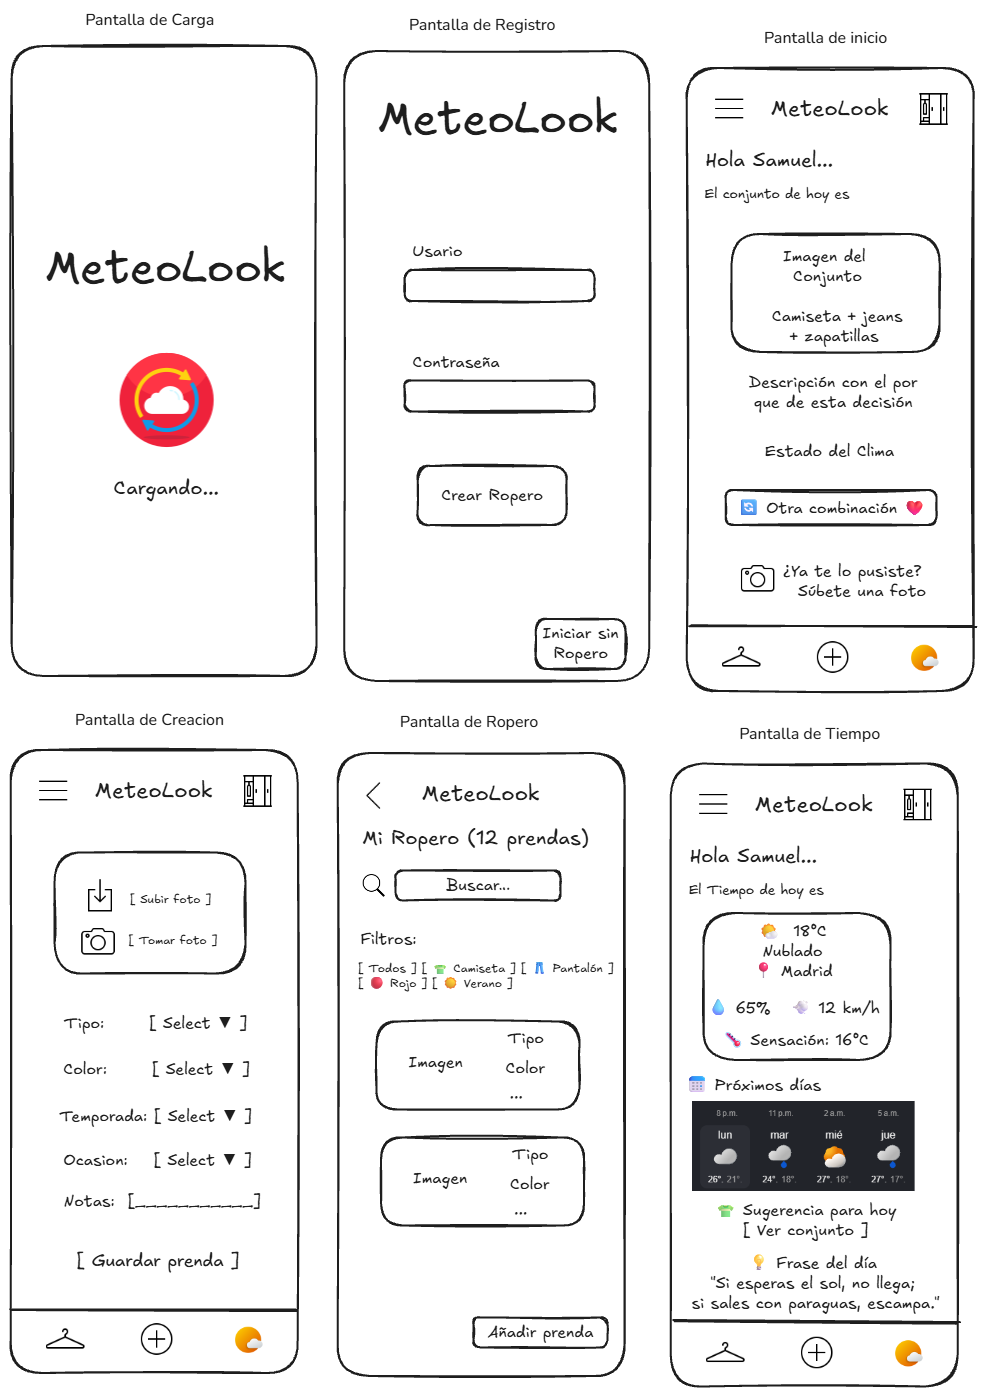
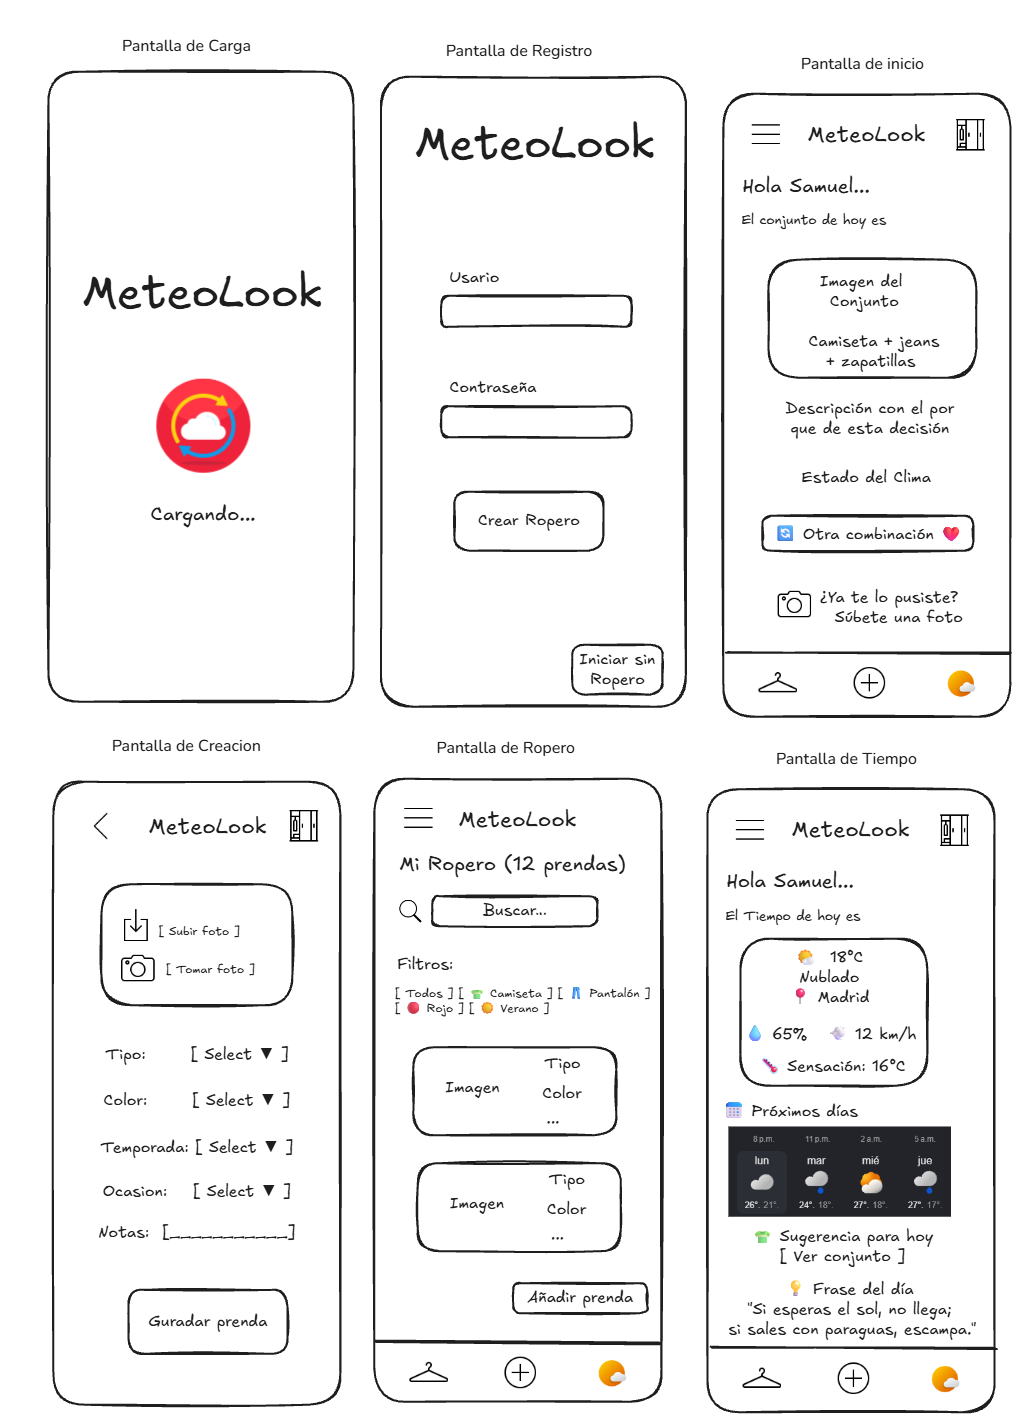
Ideas Enlazadas

diff --git a/Readme.md b/Readme.md
@@ -44,44 +44,51 @@ Plataforma donde los usuarios publican objetos que ya no usan (libros, apuntes, 
 ![imagen](/Img/Movil.png)
 
 > **Pantallas diseñadas:**
-> 1. **Pantalla de Carga:** Logo de Trukko con icono de engranaje animado y texto "Cargando...".
-> 2. **Pantalla de Login:** Formulario de usuario y contraseña sobre fondo azul, con el logo de Trukko.
-> 3. **Pantalla Home (con logo):** Barra superior con logo y buscador. Rejilla de 2 columnas con tarjetas de productos (imagen, icono de perfil, corazón de favorito). Barra de navegación inferior con 5 iconos: Inicio, Favoritos, Subir (+), Mensajes, Perfil.
-> 4. **Pantalla Home (con desplazamiento):** Similar a la anterior, pero la barra superior muestra un buscador expandido y el logo se ha desplazado. La rejilla de productos es más grande.
-> 5. **Pantalla Home (menú superior):** Barra superior con icono de menú hamburguesa, logo centrado y acceso a "Tu Cuenta". Debajo, una barra de navegación horizontal con: Home, Favoritos, Sube, Mensajes. Rejilla de productos con imágenes, icono de perfil y corazones de favorito.
+> 1. **Pantalla de Carga:** Logo de Trukko con icono animado y texto "Cargando...".
+> 2. **Pantalla de Registro:** Formulario de usuario y contraseña, botón "Crear Ropero" y opción "Iniciar sin Ropero".
+> 3. **Pantalla de Inicio:** Barra superior con logo y buscador. Rejilla de 2 columnas con tarjetas (imagen, icono de perfil, corazón de favorito). Barra de navegación inferior con 5 iconos: Inicio, Favoritos, Subir (+), Mensajes, Perfil.
+> 4. **Pantalla de Inicio con desplazamiento:** Similar a la anterior, pero la barra superior muestra un buscador expandido y el logo se ha desplazado. La rejilla de productos es más grande.
+> 5. **Pantalla de Creación (completa):** Vista previa de foto, botones "Subir foto" y "Tomar foto", formulario con Título, Descripción, Categoría, Estado, Valor aprox., Ubicación/Entrega, y botón "Crear objeto".
+> 6. **Pantalla de Mis Objetos:** Título "Mis objetos (12)", buscador, filtros por categoría, rejilla de tarjetas con imagen y botón "Editar", botón "Crear un objeto".
+> 7. **Pantalla de Perfil:** Foto de perfil, nombre, usuario, valoración (⭐ 4.8), ubicación, botón "Editar Perfil", y menú con: Mis objetos, Mis favoritos, Cerrar sesión.
+> 8. **Pantalla de Favoritos:** Título "Mis Favoritos (8)", buscador, filtros por categoría, rejilla de tarjetas con corazón relleno (❤).
 
 ### **Diseño en Web**
 
 ![imagen](/Img/Web.png)
 
 > **Pantallas diseñadas:**
-> 1. **Pantalla de Login:** Interfaz centrada con el logo de Trukko en la parte superior, un recuadro azul con el título "Login" y los campos de "Usuario" y "Contraseña". Diseño limpio y minimalista, ideal para escritorio.
-> 2. **Pantalla Home (Web):** 
->    - **Barra superior:** Icono de menú hamburguesa a la izquierda, logo de Trukko centrado, y a la derecha el icono de perfil con el texto "Tu Cuenta".
->    - **Barra de navegación horizontal:** Iconos para Home, Favoritos, Sube (+), Mensajes. Esta barra sustituye a la barra inferior del móvil, adaptándose al diseño web.
->    - **Rejilla de productos:** Organizada en 3 columnas, mostrando tarjetas con imagen, icono de perfil y corazón de favorito (relleno o vacío según si es favorito). Diseño espacioso y claro para pantallas grandes.
+> 1. **Pantalla de Login:** Interfaz centrada con el logo de Trukko, campos de "Usuario" y "Contraseña", botón "Crear Ropero" y opción "Iniciar sin Ropero".
+> 2. **Pantalla de Inicio (Web):**
+>    - **Barra superior:** Menú hamburguesa, logo de Trukko centrado, icono de perfil "Tu Cuenta".
+>    - **Barra de navegación horizontal:** Home, Favoritos, Sube, Mensajes.
+>    - **Rejilla de productos:** 3 columnas con tarjetas (imagen, icono de perfil, corazón de favorito).
 
 ---
 
 ### **Funcionalidades clave:**
 
-- **Registro y login** de usuarios.
-- **Publicación de objetos** con imagen, descripción, estado y categoría (objetos, servicios, tareas).
+- **Registro y login** de usuarios (con opción de "Iniciar sin Ropero").
+- **Publicación de objetos** con imagen, título, descripción, categoría, estado y valor aproximado.
 - **Sistema de solicitudes** con estados: pendiente / aceptada / rechazada.
 - **Historial de intercambios** y valoraciones.
-- **Sistema de favoritos** (corazón en las tarjetas de producto).
+- **Sistema de favoritos** (corazón relleno/vacío).
 - **Mensajería interna** entre usuarios para negociar el trueque.
-- **Búsqueda y filtros** por categoría, estado, valoración, etc.
-- **Perfil de usuario** con sus objetos publicados, favoritos e historial.
+- **Búsqueda y filtros** por categoría (Objetos, Servicios, Tareas) y recientes.
+- **Perfil de usuario** con objetos publicados, favoritos e historial.
 - **Subida de imágenes** para los objetos publicados.
+
+---
 
 ### **Tecnologías previstas:**
 
 - **Backend:** Java + Spring Boot (API REST).
 - **Base de datos:** MySQL / PostgreSQL (usuarios, objetos, solicitudes, mensajes, favoritos).
-- **Frontend:** Angular o JS/TS (se valorará Angular por el uso de componentes y rutas).
+- **Frontend:** Angular o JS/TS.
 - **Subida de imágenes:** Multipart (almacenamiento local o en la nube).
 - **Mensajería:** WebSockets o polling para mensajes en tiempo real (opcional).
+
+---
 
 ### **Asignaturas que cubre:**
 
@@ -91,19 +98,25 @@ Plataforma donde los usuarios publican objetos que ya no usan (libros, apuntes, 
 - **Sistemas de Gestión Empresarial** → flujo de negocio con reglas (estados de solicitud), roles, permisos.
 - **Programación** → backend Java con buenas prácticas.
 
+---
+
 ### **Puntos fuertes:**
 
 - **Lógica de negocio real** (no es un CRUD plano): estados, solicitudes, mensajería, favoritos.
-- **Muy presentable en la defensa** gracias a los diseños móviles ya creados.
+- **Muy presentable en la defensa** gracias a los diseños móviles y web ya creados.
 - **Tarea programada** → cubre Programación de Servicios.
 - **Mensajería interna** → añade complejidad y valor al proyecto.
 - **Sistema de favoritos** → mejora la experiencia de usuario y la interactividad.
+- **Diseño responsive** → la misma app se adapta a móvil y web.
+
+---
 
 ### **Riesgos:**
 
 - **Más complejo de modelar** (estados, permisos, mensajería).
-- **Subida y gestión de imágenes** añade complejidad (almacenamiento, formatos, peso).
-- **Mensajería en tiempo real** puede requerir WebSockets o polling, lo que añade tiempo de desarrollo.
+- **Subida y gestión de imágenes** añade complejidad.
+- **Mensajería en tiempo real** puede requerir WebSockets o polling.
+- **Adaptación responsive** → asegurar que funciona en ambos formatos.
 
 ---
 
@@ -135,6 +148,8 @@ Plataforma donde los usuarios publican objetos que ya no usan (libros, apuntes, 
 4. **Definir los endpoints de la API REST** (ej: `/api/objetos`, `/api/solicitudes`, `/api/mensajes`).
 5. **Repartir tareas por asignatura** y crear issues en el repositorio.
 
+---
+
 [Ver Idea 2](/MeteoLook/Readme.md)
 
----
+[Ver Idea 3](/Plataforma%20de%20transicion%20profesional/Readme.md)

diff --git a/Plataforma de transicion profesional/Readme.md b/Plataforma de transicion profesional/Readme.md
@@ -688,3 +688,9 @@ Esto permitiría convertir el proceso de cambio profesional en un **itinerario c
 > **Cambiar de profesión no debería significar empezar desde cero.**
 >
 > La plataforma busca convertir la experiencia profesional de una persona en nuevas oportunidades, mostrando qué puede aprovechar, qué necesita aprender y cuál puede ser su siguiente paso profesional.
+
+---
+
+[Ver Idea 1](/Readme.md)
+
+[Ver Idea 2](/MeteoLook/Readme.md)

diff --git a/MeteoLook/Readme.md b/MeteoLook/Readme.md
@@ -184,4 +184,6 @@ Aplicación web/móvil donde el usuario sube fotos de su ropa, la etiqueta (tipo
 
 [Ver Idea 1](/Readme.md)
 
+[Ver Idea 3](/Plataforma%20de%20transicion%20profesional/Readme.md)
+
 > ⭐ "Si esperas el sol, no llega; si sales con paraguas, escampa." ⭐
